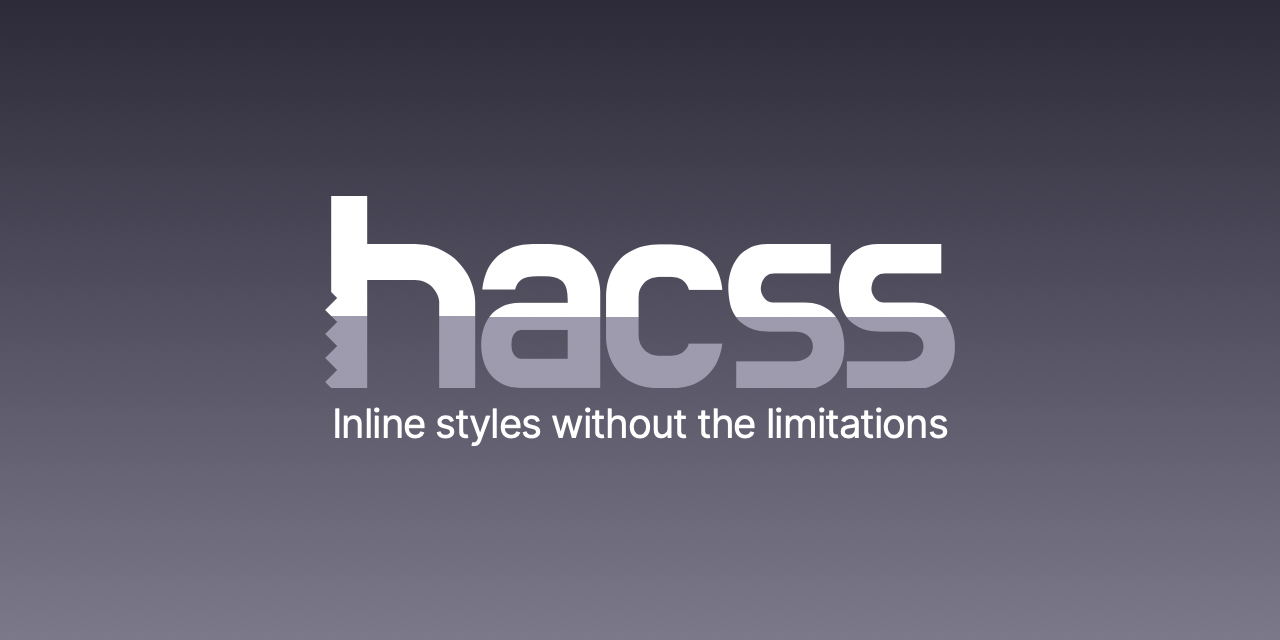
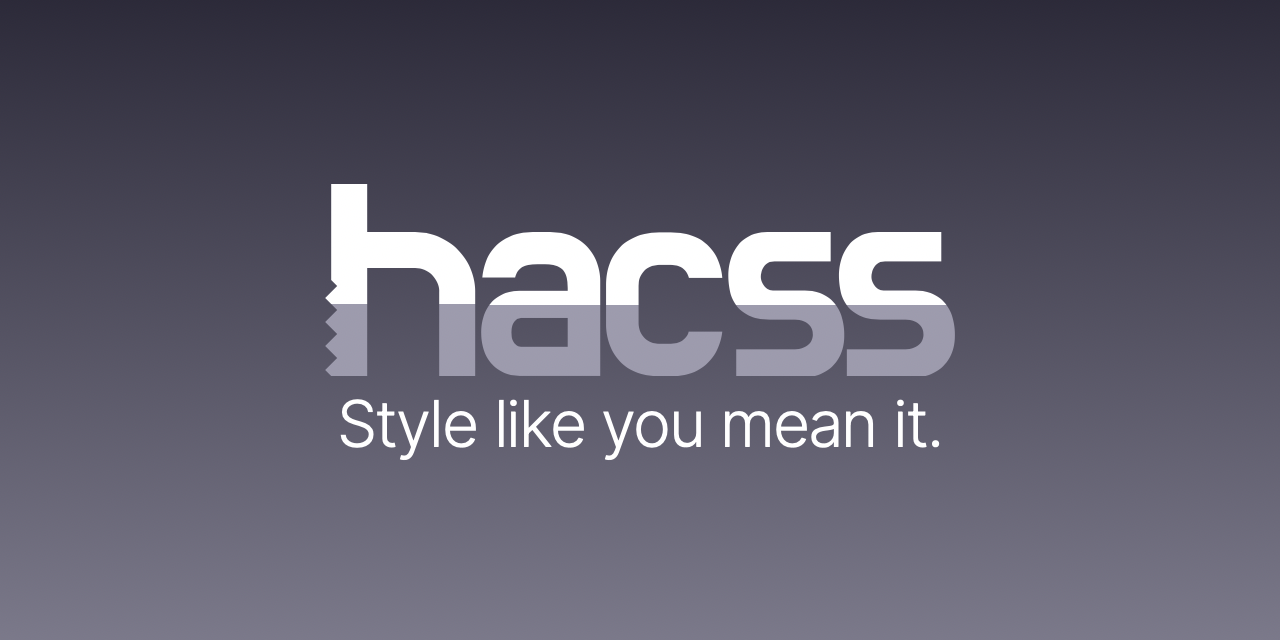
Update tag line

Changed region(s): [[0.25, 0.3438, 0.75, 0.7188], [0.25, 0.2812, 0.3125, 0.3125]]

diff --git a/social-media-preview/source.html b/social-media-preview/source.html
@@ -1,7 +1,9 @@
-<link rel="stylesheet" href="https://fonts.googleapis.com/css?family=Inter&display=swap" />
-<div style="width:1280px;height:640px; background:linear-gradient(#323041,#868495); display:flex; align-items: center; justify-content:center; flex-direction:column; ">
-<svg height="192px" viewBox="0 0 1679 512" xmlns="http://www.w3.org/2000/svg"><defs><linearGradient id="b" x1="0" y1="0" x2="0" y2="100%"><stop offset="62.5%" stop-color="#fff"/><stop offset="62.5%" stop-color="#a7a5b6"/></linearGradient><linearGradient id="a" x1="0" y1="0" x2="0" y2="100%"><stop offset="50%" stop-color="#fff"/><stop offset="50%" stop-color="#a7a5b6"/></linearGradient></defs><g fill="url(#a)"><path fill="url(#b)" d="M16 0v256l16 16-32 32 32 32-32 32 32 32-32 32 32 32-32 32 16 16h96V224h128a64 64 0 0164 64v224h96V288a160 160 1 00-160-160H112V0"/><path d="M506.481 249.396h-87.464q2.262-24.128 10.933-45.994t25.259-38.454a116.347 116.347 0 0126.381-19.589 145.607 145.607 0 0115.089-7.178 133.626 133.626 0 0131.29-8.368 179.046 179.046 0 0126.014-1.811h45.24a172.049 172.049 0 0128.969 2.322 125.261 125.261 0 0130.22 8.988 131.788 131.788 0 0126.939 15.956 112.586 112.586 0 0114.908 13.827q16.588 18.473 24.882 42.224 8.294 23.751 8.294 47.879v252.59H519.299a112.572 112.572 0 01-24.947-2.66 91.774 91.774 0 01-19.539-6.765 101.058 101.058 0 01-26.261-17.968 93.698 93.698 0 01-6.538-6.914 98.41 98.41 0 01-17.435-30.11 115.512 115.512 0 01-2.169-6.459 150.676 150.676 0 01-6.144-35.563 175.061 175.061 0 01-.265-9.677 142.569 142.569 0 013.506-32.042 126.874 126.874 0 013.28-11.69 107.018 107.018 0 0111.337-24.024 93.734 93.734 0 018.267-11.037q12.818-14.703 32.045-23.374a97.841 97.841 0 0128.754-7.824 122.592 122.592 0 0114.601-.847h128.934v-7.54a143.476 143.476 0 00-.861-16.035 117.915 117.915 0 00-1.401-9.224 55.685 55.685 0 00-3.335-11.15 44.313 44.313 0 00-4.959-8.831q-5.69-7.824-16.748-12.629a60.908 60.908 0 00-1.348-.566 56.663 56.663 0 00-9.742-2.89q-5.12-1.068-11.201-1.569a140.179 140.179 0 00-11.479-.442h-18.85a167.951 167.951 0 00-13.996.542q-19.368 1.626-28.982 8.129a39.521 39.521 0 00-13.593 16.141 56.563 56.563 0 00-3.749 10.626zm15.834 184.73h124.41v-76.908h-124.41a19.588 19.588 0 00-11.718 3.974q-2.734 1.984-5.278 4.958a40.219 40.219 0 00-.723.87 31.675 31.675 0 00-5.342 10.094q-1.508 4.575-2.133 10.16a75.658 75.658 0 00-.442 8.398 77.746 77.746 0 00.627 10.222q1.6 12.033 7.29 18.807a32.08 32.08 0 005.382 5.158q5.742 4.267 12.337 4.267zM890.754 426.081h30.914a62.975 62.975 0 0015.3-1.777 48.677 48.677 0 0015.614-6.894q12.818-8.671 16.588-23.751h89.726q-6.786 54.288-42.224 86.71a119.827 119.827 0 01-55.109 28.189 177.571 177.571 0 01-39.895 4.233h-30.914a185.413 185.413 0 01-34.113-3.016 149.969 149.969 0 01-24.699-6.786 125.205 125.205 0 01-31.065-16.599 111.894 111.894 0 01-13.421-11.676 128.705 128.705 0 01-25.607-38.101 150.096 150.096 0 01-2.668-6.385q-10.179-26.013-10.179-57.681V269.249a177.049 177.049 0 012.706-31.631 138.377 138.377 0 017.473-26.427q10.179-25.636 28.275-43.732 18.096-18.096 44.486-28.275a151.601 151.601 0 0138.184-9.083 189.099 189.099 0 0120.628-1.096h30.914q52.411 0 85.942 23.876a111.18 111.18 0 0110.57 8.546q35.438 32.422 40.716 88.972h-88.972a52.96 52.96 0 00-5.648-13.485 42.369 42.369 0 00-10.94-12.151 43.016 43.016 0 00-15.387-7.174q-7.36-1.874-16.281-1.874h-30.914a61.505 61.505 0 00-19.134 2.854 50.815 50.815 0 00-20.451 12.603 52.059 52.059 0 00-14.868 30.979 72.024 72.024 0 00-.589 9.36v98.02a65.379 65.379 0 002.7 19.219 52.252 52.252 0 0012.757 21.497 51.908 51.908 0 0034.955 15.683 69.855 69.855 0 004.63.151zM1347.948 128v78.416h-150.046q-7.839 0-13.508 2.171a24.459 24.459 0 00-2.703 1.222q-6.409 3.393-10.933 9.425-4.524 6.032-6.786 13.195a48.759 48.759 0 00-1.994 9.239 42.127 42.127 0 00-.268 4.71q0 14.326 9.425 26.013a34.303 34.303 0 007.652 7.122 27.095 27.095 0 0015.345 4.565h84.448a130.704 130.704 0 0123.333 1.988 98.03 98.03 0 0123.038 7.06 93.504 93.504 0 0127.078 18.279 88.074 88.074 0 016.098 6.603q13.195 15.834 19.604 37.7 6.409 21.866 6.409 46.748v2.262a135.662 135.662 0 01-2.505 26.561 111.666 111.666 0 01-5.412 18.679 102.445 102.445 0 01-14.691 26.149 93.41 93.41 0 01-7.552 8.535q-14.326 14.326-33.93 22.62t-41.47 8.294h-182.468V440.91h156.832q17.342 0 32.045-9.802 14.703-9.802 15.457-29.406v.754a51.272 51.272 0 00-.583-7.952q-.698-4.446-2.234-8.13a28.419 28.419 0 00-1.33-2.768q-4.147-7.54-10.933-12.441-6.786-4.901-15.08-7.163-8.294-2.262-17.342-2.262h-67.86q-25.631 0-44.286-6.3a85.727 85.727 0 01-10.379-4.256q-21.489-10.556-33.93-27.144-12.441-16.588-16.965-37.7-4.524-21.112-4.524-42.978 0-22.62 6.786-43.732a114.653 114.653 0 0116.783-33.193 108.226 108.226 0 013.198-4.13q13.195-16.211 32.799-25.259a97.802 97.802 0 0128.726-8.074 123.855 123.855 0 0115.76-.974h168.896z"/><path d="M1642.948 128v78.416h-150.046q-7.839 0-13.508 2.171a24.459 24.459 0 00-2.703 1.222q-6.409 3.393-10.933 9.425-4.524 6.032-6.786 13.195a48.759 48.759 0 00-1.994 9.239 42.127 42.127 0 00-.268 4.71q0 14.326 9.425 26.013a34.303 34.303 0 007.652 7.122 27.095 27.095 0 0015.345 4.565h84.448a130.704 130.704 0 0123.333 1.988 98.03 98.03 0 0123.038 7.06 93.504 93.504 0 0127.078 18.279 88.074 88.074 0 016.098 6.603q13.195 15.834 19.604 37.7 6.409 21.866 6.409 46.748v2.262a135.662 135.662 0 01-2.505 26.561 111.666 111.666 0 01-5.412 18.679 102.445 102.445 0 01-14.691 26.149 93.41 93.41 0 01-7.552 8.535q-14.326 14.326-33.93 22.62t-41.47 8.294h-182.468V440.91h156.832q17.342 0 32.045-9.802 14.703-9.802 15.457-29.406v.754a51.272 51.272 0 00-.583-7.952q-.698-4.446-2.234-8.13a28.419 28.419 0 00-1.33-2.768q-4.147-7.54-10.933-12.441-6.786-4.901-15.08-7.163-8.294-2.262-17.342-2.262h-67.86q-25.631 0-44.286-6.3a85.727 85.727 0 01-10.379-4.256q-21.489-10.556-33.93-27.144-12.441-16.588-16.965-37.7-4.524-21.112-4.524-42.978 0-22.62 6.786-43.732a114.653 114.653 0 0116.783-33.193 108.226 108.226 0 013.198-4.13q13.195-16.211 32.799-25.259a97.802 97.802 0 0128.726-8.074 123.855 123.855 0 0115.76-.974h168.896z"/></g></svg>
-  <div style="color:#fff; font-size:40px; line-height:1; font-family: 'Inter', sans-serif; letter-spacing: -1px; margin-top: 16px">Inline styles without the limitations</div>
+<link rel="stylesheet" href="https://fonts.googleapis.com/css?family=Inter:300&display=swap" />
+<div style="width:1280px;height:640px; background:linear-gradient(#323041,#868495); display:flex; align-items: center; justify-content:center; flex-direction:column; font-size: 64px; font-weight: 300; line-height:1; font-family: 'Inter', sans-serif; letter-spacing: -0.03em; color: #fff;">
+<svg height="3em" viewBox="0 0 1679 512" xmlns="http://www.w3.org/2000/svg"><defs><linearGradient id="b" x1="0" y1="0" x2="0" y2="100%"><stop offset="62.5%" stop-color="#fff"/><stop offset="62.5%" stop-color="#a7a5b6"/></linearGradient><linearGradient id="a" x1="0" y1="0" x2="0" y2="100%"><stop offset="50%" stop-color="#fff"/><stop offset="50%" stop-color="#a7a5b6"/></linearGradient></defs><g fill="url(#a)"><path fill="url(#b)" d="M16 0v256l16 16-32 32 32 32-32 32 32 32-32 32 32 32-32 32 16 16h96V224h128a64 64 0 0164 64v224h96V288a160 160 1 00-160-160H112V0"/><path d="M506.481 249.396h-87.464q2.262-24.128 10.933-45.994t25.259-38.454a116.347 116.347 0 0126.381-19.589 145.607 145.607 0 0115.089-7.178 133.626 133.626 0 0131.29-8.368 179.046 179.046 0 0126.014-1.811h45.24a172.049 172.049 0 0128.969 2.322 125.261 125.261 0 0130.22 8.988 131.788 131.788 0 0126.939 15.956 112.586 112.586 0 0114.908 13.827q16.588 18.473 24.882 42.224 8.294 23.751 8.294 47.879v252.59H519.299a112.572 112.572 0 01-24.947-2.66 91.774 91.774 0 01-19.539-6.765 101.058 101.058 0 01-26.261-17.968 93.698 93.698 0 01-6.538-6.914 98.41 98.41 0 01-17.435-30.11 115.512 115.512 0 01-2.169-6.459 150.676 150.676 0 01-6.144-35.563 175.061 175.061 0 01-.265-9.677 142.569 142.569 0 013.506-32.042 126.874 126.874 0 013.28-11.69 107.018 107.018 0 0111.337-24.024 93.734 93.734 0 018.267-11.037q12.818-14.703 32.045-23.374a97.841 97.841 0 0128.754-7.824 122.592 122.592 0 0114.601-.847h128.934v-7.54a143.476 143.476 0 00-.861-16.035 117.915 117.915 0 00-1.401-9.224 55.685 55.685 0 00-3.335-11.15 44.313 44.313 0 00-4.959-8.831q-5.69-7.824-16.748-12.629a60.908 60.908 0 00-1.348-.566 56.663 56.663 0 00-9.742-2.89q-5.12-1.068-11.201-1.569a140.179 140.179 0 00-11.479-.442h-18.85a167.951 167.951 0 00-13.996.542q-19.368 1.626-28.982 8.129a39.521 39.521 0 00-13.593 16.141 56.563 56.563 0 00-3.749 10.626zm15.834 184.73h124.41v-76.908h-124.41a19.588 19.588 0 00-11.718 3.974q-2.734 1.984-5.278 4.958a40.219 40.219 0 00-.723.87 31.675 31.675 0 00-5.342 10.094q-1.508 4.575-2.133 10.16a75.658 75.658 0 00-.442 8.398 77.746 77.746 0 00.627 10.222q1.6 12.033 7.29 18.807a32.08 32.08 0 005.382 5.158q5.742 4.267 12.337 4.267zM890.754 426.081h30.914a62.975 62.975 0 0015.3-1.777 48.677 48.677 0 0015.614-6.894q12.818-8.671 16.588-23.751h89.726q-6.786 54.288-42.224 86.71a119.827 119.827 0 01-55.109 28.189 177.571 177.571 0 01-39.895 4.233h-30.914a185.413 185.413 0 01-34.113-3.016 149.969 149.969 0 01-24.699-6.786 125.205 125.205 0 01-31.065-16.599 111.894 111.894 0 01-13.421-11.676 128.705 128.705 0 01-25.607-38.101 150.096 150.096 0 01-2.668-6.385q-10.179-26.013-10.179-57.681V269.249a177.049 177.049 0 012.706-31.631 138.377 138.377 0 017.473-26.427q10.179-25.636 28.275-43.732 18.096-18.096 44.486-28.275a151.601 151.601 0 0138.184-9.083 189.099 189.099 0 0120.628-1.096h30.914q52.411 0 85.942 23.876a111.18 111.18 0 0110.57 8.546q35.438 32.422 40.716 88.972h-88.972a52.96 52.96 0 00-5.648-13.485 42.369 42.369 0 00-10.94-12.151 43.016 43.016 0 00-15.387-7.174q-7.36-1.874-16.281-1.874h-30.914a61.505 61.505 0 00-19.134 2.854 50.815 50.815 0 00-20.451 12.603 52.059 52.059 0 00-14.868 30.979 72.024 72.024 0 00-.589 9.36v98.02a65.379 65.379 0 002.7 19.219 52.252 52.252 0 0012.757 21.497 51.908 51.908 0 0034.955 15.683 69.855 69.855 0 004.63.151zM1347.948 128v78.416h-150.046q-7.839 0-13.508 2.171a24.459 24.459 0 00-2.703 1.222q-6.409 3.393-10.933 9.425-4.524 6.032-6.786 13.195a48.759 48.759 0 00-1.994 9.239 42.127 42.127 0 00-.268 4.71q0 14.326 9.425 26.013a34.303 34.303 0 007.652 7.122 27.095 27.095 0 0015.345 4.565h84.448a130.704 130.704 0 0123.333 1.988 98.03 98.03 0 0123.038 7.06 93.504 93.504 0 0127.078 18.279 88.074 88.074 0 016.098 6.603q13.195 15.834 19.604 37.7 6.409 21.866 6.409 46.748v2.262a135.662 135.662 0 01-2.505 26.561 111.666 111.666 0 01-5.412 18.679 102.445 102.445 0 01-14.691 26.149 93.41 93.41 0 01-7.552 8.535q-14.326 14.326-33.93 22.62t-41.47 8.294h-182.468V440.91h156.832q17.342 0 32.045-9.802 14.703-9.802 15.457-29.406v.754a51.272 51.272 0 00-.583-7.952q-.698-4.446-2.234-8.13a28.419 28.419 0 00-1.33-2.768q-4.147-7.54-10.933-12.441-6.786-4.901-15.08-7.163-8.294-2.262-17.342-2.262h-67.86q-25.631 0-44.286-6.3a85.727 85.727 0 01-10.379-4.256q-21.489-10.556-33.93-27.144-12.441-16.588-16.965-37.7-4.524-21.112-4.524-42.978 0-22.62 6.786-43.732a114.653 114.653 0 0116.783-33.193 108.226 108.226 0 013.198-4.13q13.195-16.211 32.799-25.259a97.802 97.802 0 0128.726-8.074 123.855 123.855 0 0115.76-.974h168.896z"/><path d="M1642.948 128v78.416h-150.046q-7.839 0-13.508 2.171a24.459 24.459 0 00-2.703 1.222q-6.409 3.393-10.933 9.425-4.524 6.032-6.786 13.195a48.759 48.759 0 00-1.994 9.239 42.127 42.127 0 00-.268 4.71q0 14.326 9.425 26.013a34.303 34.303 0 007.652 7.122 27.095 27.095 0 0015.345 4.565h84.448a130.704 130.704 0 0123.333 1.988 98.03 98.03 0 0123.038 7.06 93.504 93.504 0 0127.078 18.279 88.074 88.074 0 016.098 6.603q13.195 15.834 19.604 37.7 6.409 21.866 6.409 46.748v2.262a135.662 135.662 0 01-2.505 26.561 111.666 111.666 0 01-5.412 18.679 102.445 102.445 0 01-14.691 26.149 93.41 93.41 0 01-7.552 8.535q-14.326 14.326-33.93 22.62t-41.47 8.294h-182.468V440.91h156.832q17.342 0 32.045-9.802 14.703-9.802 15.457-29.406v.754a51.272 51.272 0 00-.583-7.952q-.698-4.446-2.234-8.13a28.419 28.419 0 00-1.33-2.768q-4.147-7.54-10.933-12.441-6.786-4.901-15.08-7.163-8.294-2.262-17.342-2.262h-67.86q-25.631 0-44.286-6.3a85.727 85.727 0 01-10.379-4.256q-21.489-10.556-33.93-27.144-12.441-16.588-16.965-37.7-4.524-21.112-4.524-42.978 0-22.62 6.786-43.732a114.653 114.653 0 0116.783-33.193 108.226 108.226 0 013.198-4.13q13.195-16.211 32.799-25.259a97.802 97.802 0 0128.726-8.074 123.855 123.855 0 0115.76-.974h168.896z"/></g></svg>
+  <div style="margin-top: 0.25em">Style like you mean it.</div>
 </div>
+
+
 
 
